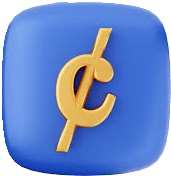
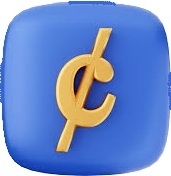
Fix MobileNav

diff --git a/src/components/MobileNav/MobileNav.css b/src/components/MobileNav/MobileNav.css
@@ -20,7 +20,7 @@
     width: 200px;
     height: 200px;
     position: fixed;
-    top: 20px;
+    top: 30px;
     right: 25px;
     overflow: hidden;
   }
@@ -28,23 +28,25 @@
   .mobilenav__button {
     background-color: transparent;
     border: none;
-    position: absolute;
-    top: 0px;
-    right: 0px;
+    position: fixed;
+    top: 25px;
+    right: 25px;
     transform: translateX(0px);
     transition: transform .3s ease-in-out .5s;
     cursor: pointer;
+    z-index: +1;
   }
 
   .mobilenav__button_clicked {
     background-color: transparent;
     border: none;
-    position: absolute;
-    top: 0px;
-    right: 0px;
-    transform: translateX(-106px);
-    transition: transform .3s ease-in-out;
+    position: fixed;
+    top: 25px;
+    right: 25px;
+    transform: translateX(-120px);
+    transition: transform .2s ease-in-out;
     cursor: pointer;
+    z-index: +1;
   }
 
   .mobilenav__button-image {
@@ -65,7 +67,7 @@
 
   .mobilenav__links_clicked {
     width: 150px;
-    height: 175px;
+    height: 185px;
     display: flex;
     flex-direction: column;
     justify-content: flex-end;
@@ -87,7 +89,7 @@
 
   .mobilenav__links {
     width: 150px;
-    height: 175px;
+    height: 185px;
     display: flex;
     flex-direction: column;
     justify-content: flex-end;

diff --git a/src/components/MobileNav/MobileNav.jsx b/src/components/MobileNav/MobileNav.jsx
@@ -15,10 +15,11 @@ const handleButtonClickToggle = (evt) => {
   return(
     <div className={isScrolled? "mobilenav" : "mobilenav_off"}>
       <Overlay buttonClicked={buttonClicked} />
-      <div className="mobilenav__border-hide">
       <button onClick={handleButtonClickToggle} className={buttonClicked ? "mobilenav__button_clicked" : "mobilenav__button"}>
         <img src={mobilenav} alt="Picture of a coin on the Mobil Navigation button" className={buttonClicked ? "mobilenav__button-image_clicked" : "mobilenav__button-image"} />
       </button>
+      <div className="mobilenav__border-hide">
+
       <div className={buttonClicked ? "mobilenav__links_clicked" : "mobilenav__links"}>
         <p className="mobilnav__link"></p>
         <p onClick={() => {window.location.href="#bio"; setButtonClicked(false);}} className="mobilenav__link">Biography</p>
